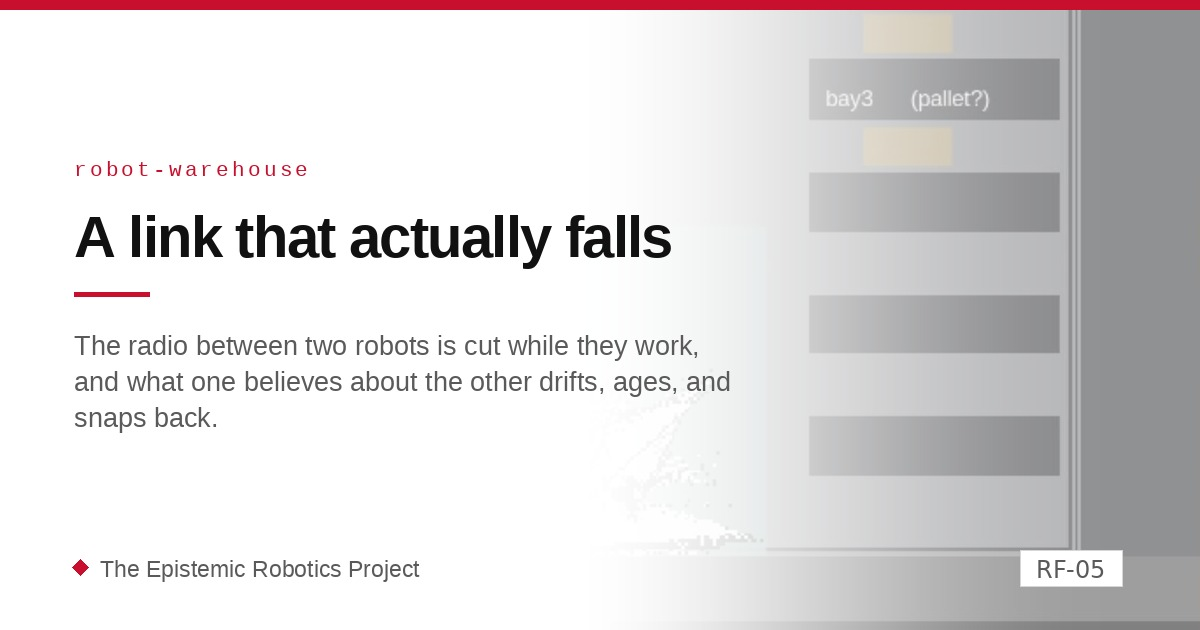
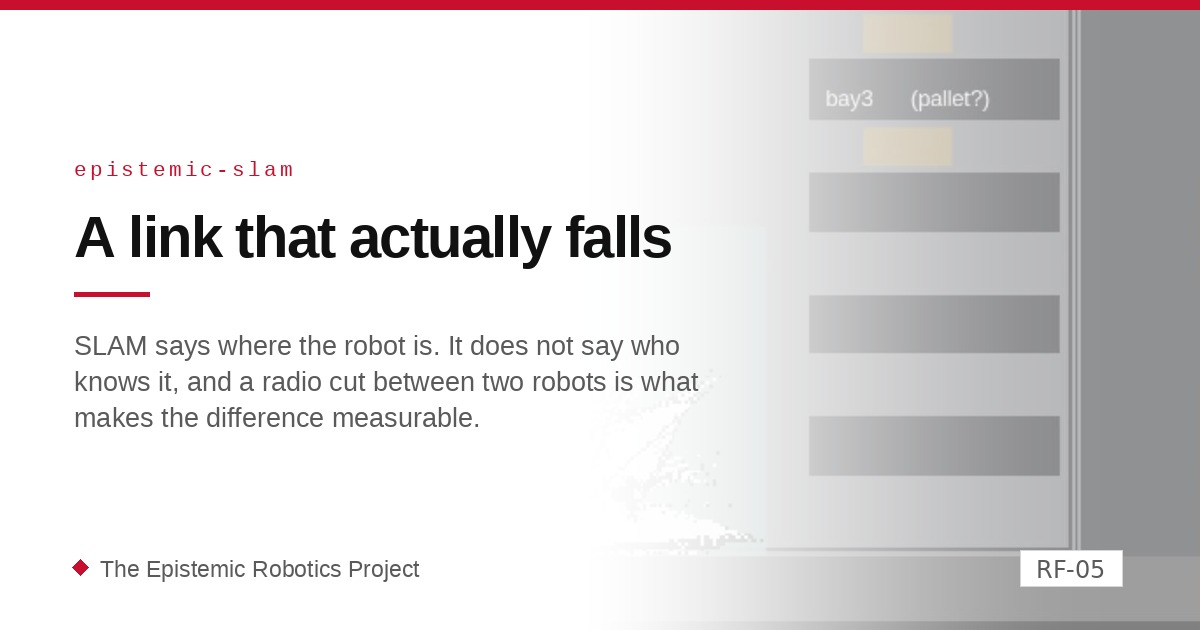
Say what the run is a demonstration of
The page led with the fault injection and treated the belief as a thing to
look at. That is backwards. The injection is apparatus; what it is apparatus
for is the one question SLAM does not answer, which is who knows the map.

Every demonstration on this site rests on a coincidence: one robot's
observation writes the grid and the knowledge model at once, so a bay it has
not entered is unobserved in the first and undecided in the second, and the two
are views of one fact. The coincidence holds because a single observation
drives both. Cutting the radio takes it away, and that is the only condition
under which the difference between a grid and a knowledge state can be
measured rather than asserted.

So the page now names the three things an occupancy grid has no field for.
Whose probability a cell carries, which is why coverage is a mask of what this
robot observed and not of what is free in the map it holds. Abstention, which
is why a cell seen and unresolved stays unknown rather than being collapsed
into free. And disagreement, which is why a contradiction between two robots is
recorded and does not stop the fusion.

It also names what is new here, which is that the boundary between knowledge
and belief acquires a number. In the survey domains an agent either knows which
world it is in or does not, and looking settles it. A partner's pose during an
outage is neither: it is inference from a motion model, and the covariance is
[…]

Changed region(s): [[0.0617, 0.5127, 0.6167, 0.6937], [0.1233, 0.2413, 0.2467, 0.3016], [0.0617, 0.2413, 0.0925, 0.3016]]

diff --git a/link_outage.html b/link_outage.html
@@ -5,13 +5,13 @@
 <link rel="icon" type="image/svg+xml" href="favicon.svg">
 <meta name="viewport" content="width=device-width, initial-scale=1.0">
 <title>A link that actually falls &#183; The Epistemic Robotics Project</title>
-<meta name="description" content="A communication outage injected into a running two-robot fleet, and what RF-05's belief propagation and the map reconciliation of section 5.9 do when the link is genuinely gone.">
+<meta name="description" content="SLAM says where the robot is; it does not say who knows it. A radio cut between two robots takes the grid and the knowledge model apart, and the difference between them becomes something to measure.">
 <!-- Link previews. og:image must be an absolute URL: the scrapers do not
      resolve relative paths against the page they found it on. -->
 <meta property="og:type" content="article">
 <meta property="og:site_name" content="The Epistemic Robotics Project">
 <meta property="og:title" content="A link that actually falls">
-<meta property="og:description" content="Restricted connectivity, stopped being a declaration and made to happen: a gate that drops 1 765 messages, a belief that propagates, and two real SLAM maps reconciled at reconnection.">
+<meta property="og:description" content="SLAM says where the robot is; it does not say who knows it. A radio cut between two robots takes the grid and the knowledge model apart.">
 <meta property="og:url" content="https://hanielulises.github.io/Epistemic-Robotics/link_outage.html">
 
 
@@ -24,7 +24,7 @@
 <meta property="og:image:alt" content="Link card: A link that actually falls, over the belief error and the bound during a sixty-second outage.">
 <meta name="twitter:image" content="https://hanielulises.github.io/Epistemic-Robotics/media/og/link_outage.jpg">
 <meta name="twitter:title" content="A link that actually falls">
-<meta name="twitter:description" content="A communication outage injected into a running two-robot fleet, and what belief propagation and map reconciliation do when the link is genuinely gone.">
+<meta name="twitter:description" content="SLAM says where the robot is; it does not say who knows it. A radio cut between two robots takes the grid and the knowledge model apart.">
 
 
 <script>
@@ -537,7 +537,7 @@ sup.cite a:hover{text-decoration:underline}
           <a href="warehouse_rmf.html" aria-current="page">&#183; Over Open-RMF<span class="sub">A floor RMF was never given</span></a>
           <a href="warehouse_xl.html">&#183; Epistemic planning on a warehouse floor at scale<span class="sub">The same survey domain on a derived 42 &#215; 63 m floor</span></a>
           <a href="warehouse_xl_sites.html">&#183; Knowing which, and knowing about a place nobody went<span class="sub">Three sites, two robots that look, one that is told</span></a>
-          <a href="link_outage.html">&#183; A link that actually falls<span class="sub">A communication outage injected into a running fleet</span></a>
+          <a href="link_outage.html">&#183; A link that actually falls<span class="sub">Epistemic SLAM: two robots, two maps, one radio cut</span></a>
             </div>
           </details>
           <details class="nav-folder">
@@ -575,19 +575,28 @@ sup.cite a:hover{text-decoration:underline}
 
 <div class="hero">
   <div class="container">
-    <p class="eyebrow">AWS small warehouse &#183; two robots &#183; SLAM per robot &#183; ROS 2</p>
+    <p class="eyebrow">Epistemic SLAM &#183; two robots, two maps &#183; AWS small warehouse &#183; ROS 2</p>
     <h2>A link that actually falls</h2>
     <div class="rule"></div>
     <p class="hero-p">
-      Every other fleet demonstration here models restricted connectivity as a
-      declaration: an agent is oblivious to an announcement because the domain
-      says so, before the run starts, and no link ever falls. This one cuts the
-      radio between two robots while they work. The cut has no appearance in
-      the simulator, because nothing about a warehouse changes when a radio
-      stops working, so the thing to watch is on the left: the arrow is where
-      <span class="mono-inline">r2</span> believes
-      <span class="mono-inline">r1</span> is, and the disc around it is how
-      sure it is.
+      SLAM answers where the robot is and what the building looks like. It does
+      not answer who knows that, and on a floor with two robots on it the
+      second question stops being a philosophical extra: a bay
+      <span class="mono-inline">r2</span> has not entered is not something
+      <span class="mono-inline">r2</span> knows merely because
+      <span class="mono-inline">r1</span> drove past it. Every demonstration
+      here keeps the grid and the knowledge model as two views of one fact.
+      This one cuts the radio between the two robots and takes that
+      coincidence away, which is the only condition under which the difference
+      between them can be measured rather than asserted.
+    </p>
+    <p class="hero-p" style="margin-top:1rem">
+      The cut has no appearance in the simulator: nothing about a warehouse
+      changes when a radio stops working. So the thing to watch is on the left.
+      The arrow is where <span class="mono-inline">r2</span> believes
+      <span class="mono-inline">r1</span> is, the disc around it is how far
+      that belief has drifted from being knowledge, and both turn red at the
+      point where it should stop being believed at all.
     </p>
     <p class="note" style="margin-top:1.4rem">
       Fleet, world and per-robot SLAM from
@@ -654,6 +663,120 @@ sup.cite a:hover{text-decoration:underline}
               <td>7&#8239;720 and 4&#8239;873 cells learned, 0 in conflict</td></tr>
         </tbody>
     </table>
+  </div>
+</section>
+
+<!-- ═══════════════════════════════════════════════ CONCEPT -->
+<section>
+  <div class="container">
+    <p class="sec-label">Epistemic SLAM</p>
+    <h3>Two views of one fact, and the moment they come apart</h3>
+
+    <p>
+      The demonstrations on this site rest on a coincidence that is easy to
+      miss because it holds so consistently. A robot drives, its laser sweeps,
+      <span class="mono-inline">slam_toolbox</span> writes what it saw into a
+      grid, and the epistemic layer writes the same event into a Kripke model.
+      A bay the robot has not entered is unobserved in the grid and undecided
+      in the model at once. Those are two views of one fact, and keeping them
+      that way is what makes a run honest: no prepared map is published
+      anywhere, so the robot cannot know a thing it did not look at.
+    </p>
+
+    <p>
+      The coincidence holds because one robot's observation drives both views.
+      What this run does is take it away.
+    </p>
+
+    <h4>Three things SLAM does not store</h4>
+
+    <p>
+      An occupancy grid records a probability per cell. It does not record
+      <b>whose</b> probability it is. A robot handed a merged map holds cells it
+      never saw, and nothing in the format distinguishes them from cells it
+      measured itself. That distinction is the whole of what the collaborative
+      layer adds: coverage is a mask of what this robot observed, not of what
+      is free in the map it happens to hold.
+    </p>
+
+    <p>
+      Nor does the grid record <b>abstention</b>. A cell at &minus;1 was never
+      observed, and a cell whose probability sits between the thresholds was
+      observed and not resolved. Both are unknown to the epistemic layer, and
+      collapsing the second into free or occupied would hand the model a
+      certainty the sensor never produced. An occupancy grid stores a
+      probability and a modal formula needs a decision, so a threshold has to
+      be chosen somewhere; it is chosen once, in the classification, and
+      nowhere else.
+    </p>
+
+    <p>
+      And it does not record <b>disagreement</b>. Two robots that observed the
+      same cell and reached opposite conclusions have produced a fact about the
+      fleet, not a defect in either map. Reconciliation here records the
+      contradiction and does not stop; a disputed cell that somebody can go and
+      look at again is worth more than a hole punched in the map, and worth
+      much more than an average of the two readings, which would describe a
+      floor neither robot saw.
+    </p>
+
+    <h4>Where knowledge ends and belief begins, in metres</h4>
+
+    <p>
+      While the link is up, what one robot holds about its partner is a
+      received measurement: the partner said where it was, and the statement
+      inherits whatever the partner's own localisation was worth. The instant
+      the link falls that stops being an observation of anything. What
+      continues is inference from a motion model, and the covariance is the
+      distance it has travelled from the fact.
+    </p>
+
+    <p>
+      That gives the boundary a number, which is unusual. In the epistemic
+      models on this site an agent either knows which of two worlds it is in or
+      it does not, and the survey domains are built so that the question is
+      settled by looking. Here the same distinction is continuous: the disc on
+      the left of the film is how far the belief has drifted from being
+      knowledge, and it widens for as long as nothing arrives. At fifty seconds
+      it passes the threshold, and past that point the proposition about where
+      the partner is has no business being treated as something the robot
+      knows. The engine says so; what it cannot do is act on it, because
+      marking that proposition uncertain means editing a model, and there is
+      one model for the whole fleet rather than one per robot.
+    </p>
+
+    <p class="note">
+      That last clause is the honest edge of this run. The two grids diverge
+      because two robots observed different things while incommunicado, and
+      reconciling them is the operation this layer performs. The two
+      <em>models</em> never diverge, because there is only one, and an
+      accessibility relation in it is a column of a shared structure and not a
+      perspective held on a robot. Partitioning the model is a different piece
+      of work.
+    </p>
+
+    <h4>Why merging maps is not a registration problem</h4>
+
+    <p>
+      The obvious reading of what happens at reconnection is that two grids
+      must be aligned and combined. That reading is available and it is the
+      wrong one. The alignment is arithmetic: both maps came from the same
+      simulator at the same resolution, and putting them on a common extent is
+      a translation by whole cells, with no interpolation and no rotation. Maps
+      at different resolutions are refused rather than approximated, because a
+      wrong registration produces a merged map that is confidently wrong, which
+      is worse than one that is obviously missing.
+    </p>
+
+    <p>
+      What is not arithmetic is the question underneath: after the merge, what
+      does each robot know? The answer is not the union of the grids. It is a
+      per-robot fact, and this run reports it as one: the believing robot
+      learned 7&#8239;720 cells it had never observed, the patrolling one
+      4&#8239;873, and neither now confuses them with cells it measured. That
+      accounting is what the layer exists for, and it is the part an occupancy
+      grid has no field for.
+    </p>
   </div>
 </section>
 
@@ -728,9 +851,14 @@ ros2 launch epistemic_comm link_outage_launch.py t_disc:=70 t_recon:=130</pre>
     </p>
 
     <p>
-      The full account, including why gating the announcement channel would
-      have measured nothing and what the reconciliation refused the first time
-      it was handed two real maps, is chapter 6 of the thesis.
+      Two findings from building it are worth recording here, because both cost
+      a run to discover. Gating the announcement channel measures nothing: the
+      channel is an audit path, read only by the transcript recorder, and the
+      epistemic model advances through a service the executor calls when an
+      action completes. And the reconciliation refused the first real pair of
+      maps it was ever handed, for differing in size, which is correct and had
+      never been exercised, because a test that builds both grids builds them
+      the same shape and two maps that two robots built never are.
     </p>
   </div>
 </section>

diff --git a/demos.html b/demos.html
@@ -511,7 +511,7 @@ sup.cite a:hover{text-decoration:underline}
           <a href="warehouse_rmf.html">&#183; Over Open-RMF<span class="sub">A floor RMF was never given</span></a>
           <a href="warehouse_xl.html">&#183; Epistemic planning on a warehouse floor at scale<span class="sub">The same survey domain on a derived 42 &#215; 63 m floor</span></a>
           <a href="warehouse_xl_sites.html">&#183; Knowing which, and knowing about a place nobody went<span class="sub">Three sites, two robots that look, one that is told</span></a>
-          <a href="link_outage.html">&#183; A link that actually falls<span class="sub">A communication outage injected into a running fleet</span></a>
+          <a href="link_outage.html">&#183; A link that actually falls<span class="sub">Epistemic SLAM: two robots, two maps, one radio cut</span></a>
             </div>
           </details>
           <details class="nav-folder">
@@ -761,13 +761,14 @@ sup.cite a:hover{text-decoration:underline}
         <div class="body">
           <h5><a href="link_outage.html">A link that actually falls</a></h5>
           <p>
-            Every other demonstration models restricted connectivity as a
-            declaration made before the run. This one cuts the radio between
-            two robots while they work. The cut has no appearance in the
-            simulator, so what the film watches is the belief: an arrow where
-            one robot thinks the other is, and a disc the size of its doubt,
-            separating from the robot, ageing past the point where it declares
-            itself unfit, and snapping back when the link returns.
+            SLAM answers where the robot is and what the building looks
+            like; it does not answer who knows that. Every other demonstration
+            keeps the grid and the knowledge model as two views of one fact.
+            This one cuts the radio between two robots and takes that
+            coincidence away. The cut has no appearance in the simulator, so
+            what the film watches is the belief: an arrow where one robot
+            thinks the other is, and a disc the size of how far it has drifted
+            from being knowledge.
           </p>
           <div class="facts">
             <span>60&#8202;s outage</span><span>1&#8239;765 messages dropped</span>

diff --git a/warehouse_rmf.html b/warehouse_rmf.html
@@ -537,7 +537,7 @@ sup.cite a:hover{text-decoration:underline}
           <a href="warehouse_rmf.html" aria-current="page">&#183; Over Open-RMF<span class="sub">A floor RMF was never given</span></a>
           <a href="warehouse_xl.html">&#183; Epistemic planning on a warehouse floor at scale<span class="sub">The same survey domain on a derived 42 &#215; 63 m floor</span></a>
           <a href="warehouse_xl_sites.html">&#183; Knowing which, and knowing about a place nobody went<span class="sub">Three sites, two robots that look, one that is told</span></a>
-          <a href="link_outage.html">&#183; A link that actually falls<span class="sub">A communication outage injected into a running fleet</span></a>
+          <a href="link_outage.html">&#183; A link that actually falls<span class="sub">Epistemic SLAM: two robots, two maps, one radio cut</span></a>
             </div>
           </details>
           <details class="nav-folder">

diff --git a/warehouse_xl.html b/warehouse_xl.html
@@ -537,7 +537,7 @@ sup.cite a:hover{text-decoration:underline}
           <a href="warehouse_rmf.html">&#183; Over Open-RMF<span class="sub">A floor RMF was never given</span></a>
           <a href="warehouse_xl.html" aria-current="page">&#183; Epistemic planning on a warehouse floor at scale<span class="sub">The same survey domain on a derived 42 &#215; 63 m floor</span></a>
           <a href="warehouse_xl_sites.html">&#183; Knowing which, and knowing about a place nobody went<span class="sub">Three sites, two robots that look, one that is told</span></a>
-          <a href="link_outage.html">&#183; A link that actually falls<span class="sub">A communication outage injected into a running fleet</span></a>
+          <a href="link_outage.html">&#183; A link that actually falls<span class="sub">Epistemic SLAM: two robots, two maps, one radio cut</span></a>
             </div>
           </details>
           <details class="nav-folder">

diff --git a/hotel_run.html b/hotel_run.html
@@ -537,7 +537,7 @@ sup.cite a:hover{text-decoration:underline}
           <a href="warehouse_rmf.html">&#183; Over Open-RMF<span class="sub">A floor RMF was never given</span></a>
           <a href="warehouse_xl.html">&#183; Epistemic planning on a warehouse floor at scale<span class="sub">The same survey domain on a derived 42 &#215; 63 m floor</span></a>
           <a href="warehouse_xl_sites.html">&#183; Knowing which, and knowing about a place nobody went<span class="sub">Three sites, two robots that look, one that is told</span></a>
-          <a href="link_outage.html">&#183; A link that actually falls<span class="sub">A communication outage injected into a running fleet</span></a>
+          <a href="link_outage.html">&#183; A link that actually falls<span class="sub">Epistemic SLAM: two robots, two maps, one radio cut</span></a>
             </div>
           </details>
           <details class="nav-folder" open>

diff --git a/demo.html b/demo.html
@@ -497,7 +497,7 @@ sup.cite a:hover{text-decoration:underline}
           <a href="warehouse_rmf.html">&#183; Over Open-RMF<span class="sub">A floor RMF was never given</span></a>
           <a href="warehouse_xl.html">&#183; Epistemic planning on a warehouse floor at scale<span class="sub">The same survey domain on a derived 42 &#215; 63 m floor</span></a>
           <a href="warehouse_xl_sites.html">&#183; Knowing which, and knowing about a place nobody went<span class="sub">Three sites, two robots that look, one that is told</span></a>
-          <a href="link_outage.html">&#183; A link that actually falls<span class="sub">A communication outage injected into a running fleet</span></a>
+          <a href="link_outage.html">&#183; A link that actually falls<span class="sub">Epistemic SLAM: two robots, two maps, one radio cut</span></a>
             </div>
           </details>
           <details class="nav-folder">

diff --git a/nested_run.html b/nested_run.html
@@ -540,7 +540,7 @@ sup.cite a:hover{text-decoration:underline}
           <a href="warehouse_rmf.html">&#183; Over Open-RMF<span class="sub">A floor RMF was never given</span></a>
           <a href="warehouse_xl.html">&#183; Epistemic planning on a warehouse floor at scale<span class="sub">The same survey domain on a derived 42 &#215; 63 m floor</span></a>
           <a href="warehouse_xl_sites.html">&#183; Knowing which, and knowing about a place nobody went<span class="sub">Three sites, two robots that look, one that is told</span></a>
-          <a href="link_outage.html">&#183; A link that actually falls<span class="sub">A communication outage injected into a running fleet</span></a>
+          <a href="link_outage.html">&#183; A link that actually falls<span class="sub">Epistemic SLAM: two robots, two maps, one radio cut</span></a>
             </div>
           </details>
           <details class="nav-folder">

diff --git a/six_room_survey.html b/six_room_survey.html
@@ -497,7 +497,7 @@ sup.cite a:hover{text-decoration:underline}
           <a href="warehouse_rmf.html">&#183; Over Open-RMF<span class="sub">A floor RMF was never given</span></a>
           <a href="warehouse_xl.html">&#183; Epistemic planning on a warehouse floor at scale<span class="sub">The same survey domain on a derived 42 &#215; 63 m floor</span></a>
           <a href="warehouse_xl_sites.html">&#183; Knowing which, and knowing about a place nobody went<span class="sub">Three sites, two robots that look, one that is told</span></a>
-          <a href="link_outage.html">&#183; A link that actually falls<span class="sub">A communication outage injected into a running fleet</span></a>
+          <a href="link_outage.html">&#183; A link that actually falls<span class="sub">Epistemic SLAM: two robots, two maps, one radio cut</span></a>
             </div>
           </details>
           <details class="nav-folder">

diff --git a/warehouse_run.html b/warehouse_run.html
@@ -506,7 +506,7 @@ sup.cite a:hover{text-decoration:underline}
           <a href="warehouse_rmf.html">&#183; Over Open-RMF<span class="sub">A floor RMF was never given</span></a>
           <a href="warehouse_xl.html">&#183; Epistemic planning on a warehouse floor at scale<span class="sub">The same survey domain on a derived 42 &#215; 63 m floor</span></a>
           <a href="warehouse_xl_sites.html">&#183; Knowing which, and knowing about a place nobody went<span class="sub">Three sites, two robots that look, one that is told</span></a>
-          <a href="link_outage.html">&#183; A link that actually falls<span class="sub">A communication outage injected into a running fleet</span></a>
+          <a href="link_outage.html">&#183; A link that actually falls<span class="sub">Epistemic SLAM: two robots, two maps, one radio cut</span></a>
             </div>
           </details>
           <details class="nav-folder">

diff --git a/domains.html b/domains.html
@@ -503,7 +503,7 @@ pre:has(> code){margin:1.3rem 0}
           <a href="warehouse_rmf.html">&#183; Over Open-RMF<span class="sub">A floor RMF was never given</span></a>
           <a href="warehouse_xl.html">&#183; Epistemic planning on a warehouse floor at scale<span class="sub">The same survey domain on a derived 42 &#215; 63 m floor</span></a>
           <a href="warehouse_xl_sites.html">&#183; Knowing which, and knowing about a place nobody went<span class="sub">Three sites, two robots that look, one that is told</span></a>
-          <a href="link_outage.html">&#183; A link that actually falls<span class="sub">A communication outage injected into a running fleet</span></a>
+          <a href="link_outage.html">&#183; A link that actually falls<span class="sub">Epistemic SLAM: two robots, two maps, one radio cut</span></a>
             </div>
           </details>
           <details class="nav-folder">

diff --git a/execution.html b/execution.html
@@ -474,7 +474,7 @@ pre:has(> code){margin:1.3rem 0}
           <a href="warehouse_rmf.html">&#183; Over Open-RMF<span class="sub">A floor RMF was never given</span></a>
           <a href="warehouse_xl.html">&#183; Epistemic planning on a warehouse floor at scale<span class="sub">The same survey domain on a derived 42 &#215; 63 m floor</span></a>
           <a href="warehouse_xl_sites.html">&#183; Knowing which, and knowing about a place nobody went<span class="sub">Three sites, two robots that look, one that is told</span></a>
-          <a href="link_outage.html">&#183; A link that actually falls<span class="sub">A communication outage injected into a running fleet</span></a>
+          <a href="link_outage.html">&#183; A link that actually falls<span class="sub">Epistemic SLAM: two robots, two maps, one radio cut</span></a>
             </div>
           </details>
           <details class="nav-folder">

diff --git a/fleet_believes.html b/fleet_believes.html
@@ -503,7 +503,7 @@ pre:has(> code){margin:1.3rem 0}
           <a href="warehouse_rmf.html">&#183; Over Open-RMF<span class="sub">A floor RMF was never given</span></a>
           <a href="warehouse_xl.html">&#183; Epistemic planning on a warehouse floor at scale<span class="sub">The same survey domain on a derived 42 &#215; 63 m floor</span></a>
           <a href="warehouse_xl_sites.html">&#183; Knowing which, and knowing about a place nobody went<span class="sub">Three sites, two robots that look, one that is told</span></a>
-          <a href="link_outage.html">&#183; A link that actually falls<span class="sub">A communication outage injected into a running fleet</span></a>
+          <a href="link_outage.html">&#183; A link that actually falls<span class="sub">Epistemic SLAM: two robots, two maps, one radio cut</span></a>
             </div>
           </details>
           <details class="nav-folder">
